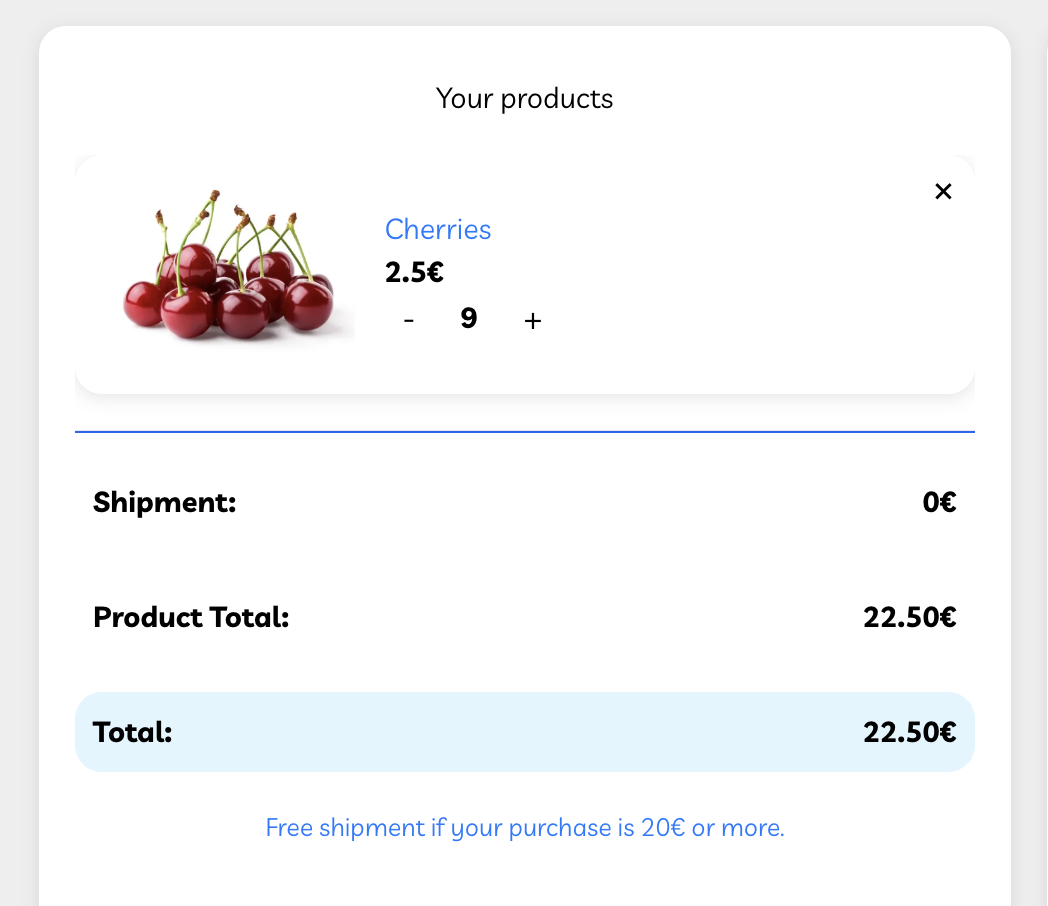
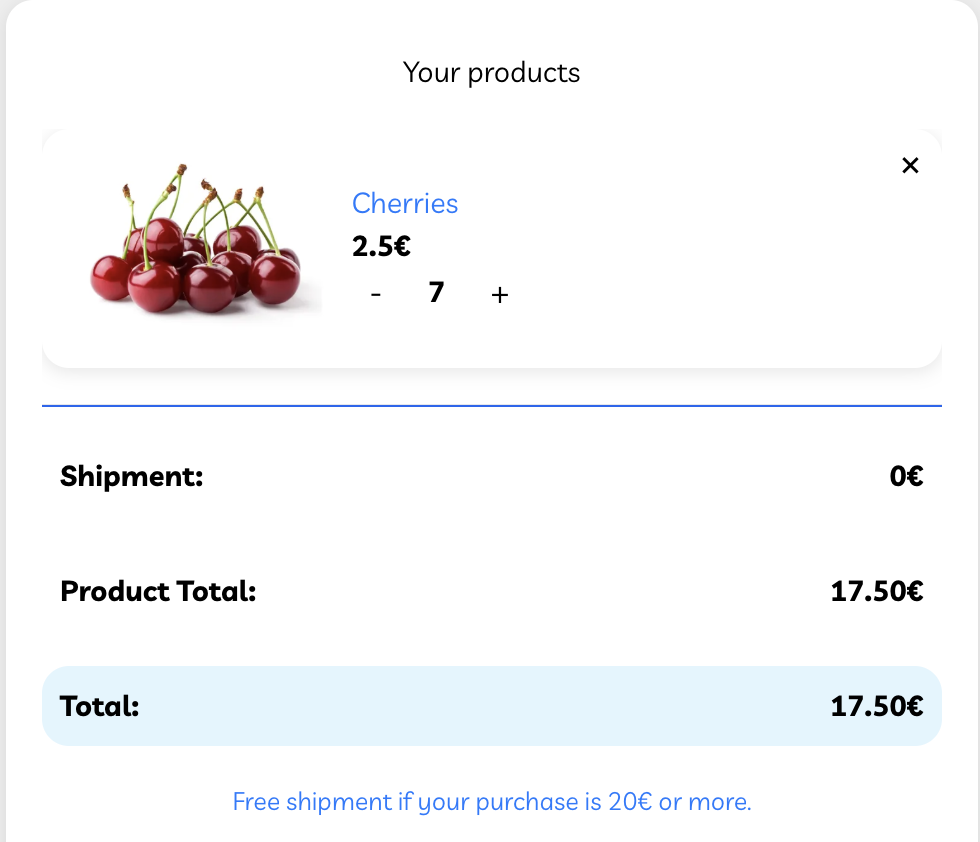
fix: replace scrrenshots with newer versions

diff --git a/docs/bugs.md b/docs/bugs.md
@@ -19,8 +19,8 @@
 * **Erwartetes Ergebnis:** Versandkosten sollten wieder auf 5 € gesetzt werden, Total korrekt aktualisiert.
 * **Tatsächliches Ergebnis:** Versandkosten bleiben auf 0 €, Total nicht korrekt aktualisiert.
 * **Screenshots / Anhänge:**
-  * ![Versandkosten_vor_Entfernung.png](screenshots/Versandkosten_vor_Entfernung.png)
-  * ![Versandkosten_nach_der_Entfernung.png](screenshots/Versandkosten_nach_der_Entfernung.png)
+  * ![Versandkosten_vor_Entfernug_von_produkt.png](screenshots/Versandkosten_vor_Entfernug_von_produkt.png)
+  * ![Versandkosten_nach_Entfernung.png](screenshots/Versandkosten_nach_Entfernung.png)
 * **Zusätzliche Informationen:** Kritischer Fehler, da die Versandregel nicht korrekt umgesetzt wird.
 
 ---
